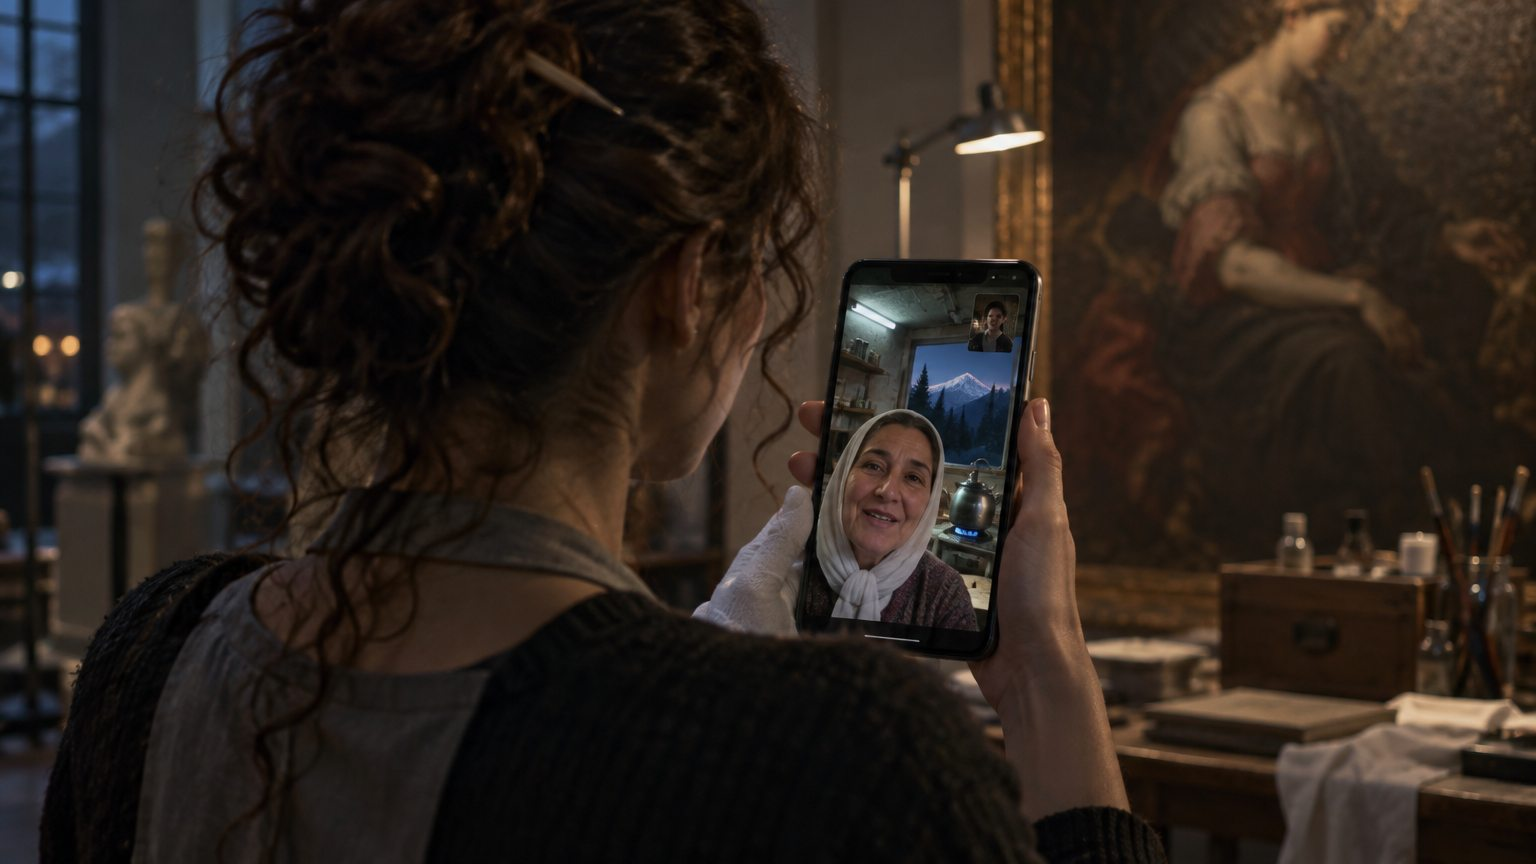
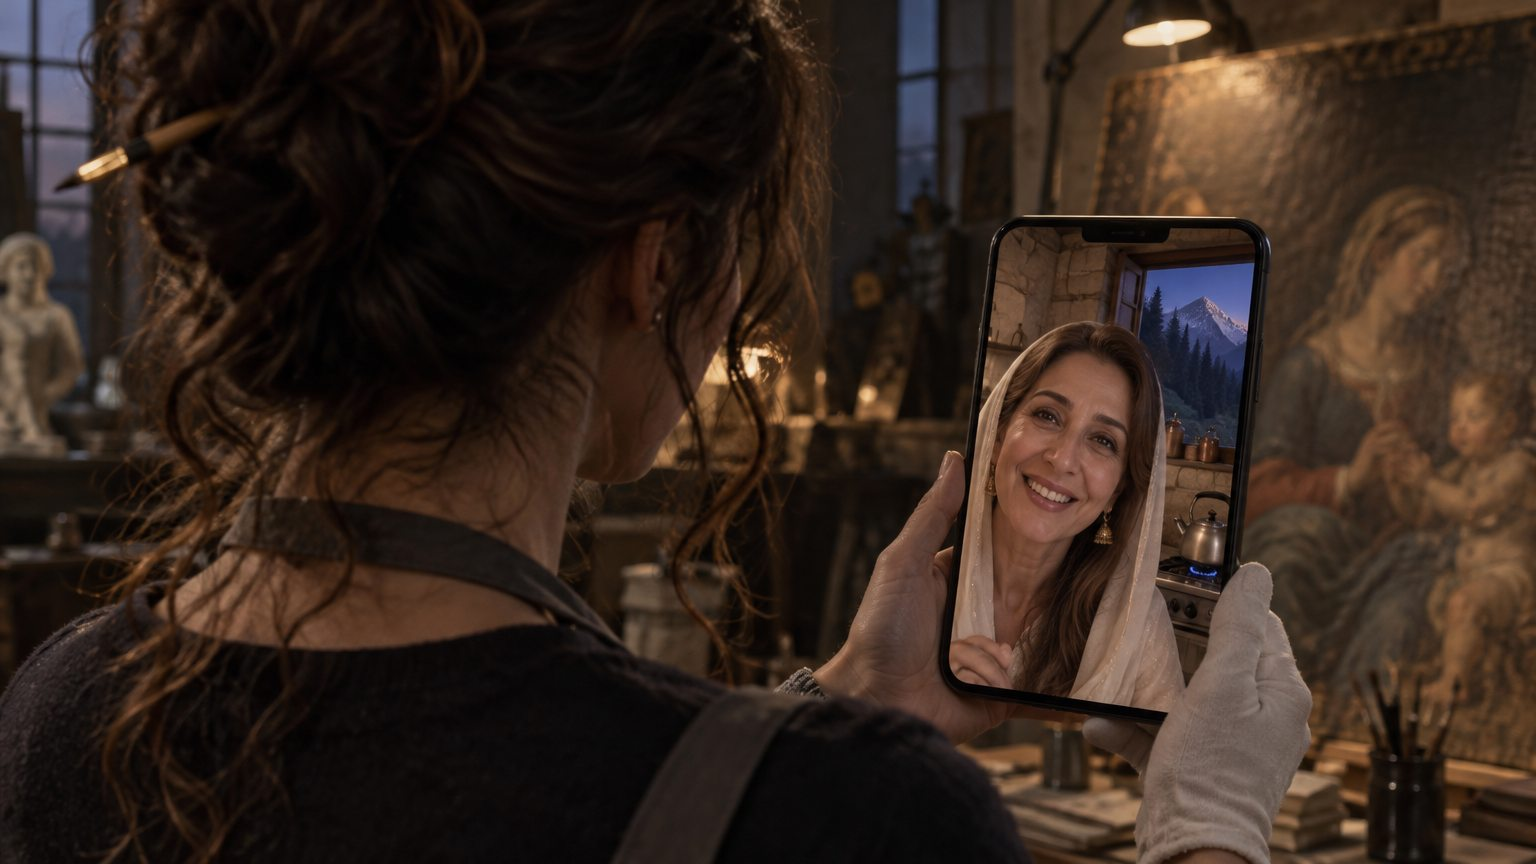
Lock parents' looks (Alex 55, Syd 52), redraw family frames, update storyboard and script ages

diff --git a/art/storyboards/storyboard-ch01.html b/art/storyboards/storyboard-ch01.html
@@ -102,6 +102,7 @@ footer { border-top: 1px solid var(--line); padding-top: 20px; color: var(--mute
     <div class="cast">
       <figure><img src="characters/nysa-v9.png" alt="Nysa, locked look"><figcaption><b>Nysa Ali, 25</b>Paintings conservator · NOW · violet</figcaption></figure>
       <figure><img src="characters/eesa-v9.png" alt="Eesa, locked look"><figcaption><b>Eesa Ali, 29</b>Erased in 2011 · THEN · blue</figcaption></figure>
+      <figure><img src="characters/parents-v1.png" alt="Alex and Syd, locked look"><figcaption><b>Alex 55 · Syd 52</b>Abbu and Ammi · Chandsar</figcaption></figure>
     </div>
   </header>
 
@@ -122,7 +123,7 @@ footer { border-top: 1px solid var(--line); padding-top: 20px; color: var(--mute
       </figure>
       <figure class="frame">
         <div class="shot"><img src="ch01/s1-3.jpg" alt="Video call with Ammi in her prayer dupatta in the mountain kitchen"><span class="tag">1C</span></div>
-        <figcaption><p class="what">Ammi calls from Chandsar just after dawn prayer. The house is sold. <q>Clear out the store room.</q> It was Eesa's room.</p><p class="feel">The first crack</p></figcaption>
+        <figcaption><p class="what">Ammi calls from Chandsar just after dawn prayer. Abbu has a new job in Islamabad and the house is sold. <q>Clear out the store room.</q> It was Eesa's room.</p><p class="feel">The first crack</p></figcaption>
       </figure>
       <figure class="frame wide">
         <div class="shot"><img src="ch01/s1-4.jpg" alt="Dark studio, the painting under a white sheet, ERASED banner on the wall"><span class="tag">1D</span></div>
@@ -148,7 +149,7 @@ footer { border-top: 1px solid var(--line); padding-top: 20px; color: var(--mute
       </figure>
       <figure class="frame">
         <div class="shot"><img src="ch01/s2-3.jpg" alt="The family photo at Lake Saiful Muluk, 2010"><span class="tag">2C</span></div>
-        <figcaption><p class="what">Saiful Muluk, August 2010. Abbu, Ammi, Nysa on his shoulders, and Eesa with his telescope, looking at the sky. Everyone else sees three faces.</p><p class="feel">Grief nobody believes</p></figcaption>
+        <figcaption><p class="what">Saiful Muluk, August 2010. Abbu (39), Ammi (36), Nysa (9) on his shoulders, and Eesa with his telescope, looking at the sky. Everyone else sees three faces.</p><p class="feel">Grief nobody believes</p></figcaption>
       </figure>
       <figure class="frame">
         <div class="shot"><img src="ch01/s2-4.jpg" alt="Sketchbook with drawings of the same boy growing older"><span class="tag">2D</span></div>

diff --git a/scripts/chapter-01-script.md b/scripts/chapter-01-script.md
@@ -162,7 +162,7 @@ The kettle behind her mother began to tick as it heated.
 
 "You said you were thinking about *thinking*."
 
-"Well, we thought. Your father's knees, Nysa. You haven't seen him on the stairs. And the winters, *Allah*, last winter the road was closed for nineteen days. Nineteen days. If something happened to one of us, what? A helicopter? We're old. Your Abbu found a flat in Islamabad, in F-11, near the hospital, with a lift. A *lift*." She said it the way someone else might say *a swimming pool*. "A man from Lahore is buying the house. He's going to make it into a guest house for tourists. He takes the keys on the twentieth."
+"Well, we thought. Your father got the post at the university, Nysa. In Islamabad. *Professor* Ali." She said the word as if she were tasting it. "And the winters, *Allah*, last winter the road was closed for nineteen days. Nineteen days. If something happened to one of us, what? A helicopter? Your Abbu found a flat in F-11, with a balcony and a lift. A *lift*." She said it the way someone else might say *a swimming pool*. "A man from Lahore is buying the house. He's going to make it into a guest house for tourists. He takes the keys on the twentieth."
 
 "The twentieth of *June*?"
 
@@ -311,7 +311,7 @@ It was an ordinary print from an ordinary shop in Mansehra, glossy, the colours 
 
 In the photograph the lake was so still that the mountain stood in it twice. Malika Parbat, the Queen of Mountains, white and enormous, and below it her reflection, white and enormous and upside down. In front of the water, on the stony shore, a family stood in a row in their jackets. It had been cold even in August.
 
-Her father, Alex, at forty-five: thinner, black-haired, in a brown wool jacket and a grey cap, squinting into the sun and smiling with only one side of his mouth, which was the only way he ever smiled for cameras. On his shoulders, holding onto his ears with both hands, a nine-year-old girl in a bright pink anorak with the hood up, laughing so hard her eyes had disappeared. Beside them her mother, Syd, in a green shawl, one hand raised to shield her eyes and the other half-lifted toward the girl, as if she were about to say *careful*, which she probably was.
+Her father, Alex, at thirty-nine: tall, his long black hair combed straight back and tied at the nape, a full dark beard, a brown leather jacket, grinning so widely his eyes had creased almost shut. On his shoulders, holding onto his ears with both hands, a nine-year-old girl in a bright pink anorak with the hood up, laughing so hard her eyes had disappeared. Beside them her mother, Syd, at thirty-six, her long caramel-brown hair loose and blowing across her face, a green shawl around her shoulders, small gold jhumkas catching the sun, one hand raised to shield her eyes and the other half-lifted toward the girl, as if she were about to say *careful*, which she probably was.
 
 And at the end of the row, standing a little apart from the others, a boy.
 

diff --git a/scripts/chapter-01-scene-list.md b/scripts/chapter-01-scene-list.md
@@ -28,8 +28,8 @@
 
 | Person | In 2026 |
 |---|---|
-| **Abbu: Alex** (father) | 61. Retired schoolteacher. Quiet, practical, drives an old white Corolla. Doesn't remember Eesa. |
-| **Ammi: Syd** (mother) | 57. Warm, talks fast, always feeding someone. Doesn't remember Eesa. |
+| **Abbu: Alex** (father) | 55. Tall, long black hair combed back and tied, full dark beard, a wide easy grin. A teacher who has just been given a university post in Islamabad. Drives an old white Corolla he refuses to sell. Doesn't remember Eesa. |
+| **Ammi: Syd** (mother) | 52. Fair, long caramel-brown hair with lighter streaks, gold jhumkas, stylish even at home. Warm, talks fast, always feeding someone. Doesn't remember Eesa. |
 | **Nysa** | 25. Paintings conservator in New York. Remembers four people in the family photo. |
 | **Eesa** | Would be 29. Erased on the night of 16–17 June 2011, aged 14. |
 
@@ -70,7 +70,7 @@ The family photograph: **Lake Saiful Muluk, August 2010.** All four in jackets, 
 - **Where:** Islamabad airport, then north on the N-15 through Abbottabad, Mansehra, Balakot (rebuilt after the 2005 earthquake), Kaghan and Naran, up to Chandsar.
 - **Weather:** 38 °C and hazy in Islamabad, cooling every hour. By Naran, 17 °C with snow on the peaks. The Kunhar River runs grey-green and loud with snowmelt.
 - **Who:** Nysa and Abbu, in his old white Corolla with prayer beads hanging from the mirror.
-- **What happens:** painted trucks, roadside chai at Balakot, landslide rubble near Kaghan. Abbu talks about the move and his knees. She asks carefully: "Do you remember the trip to Saiful Muluk?" He remembers it fondly: "The three of us. You got so sunburned."
+- **What happens:** painted trucks, roadside chai at Balakot, landslide rubble near Kaghan. Abbu talks about the move and his new university job. She asks carefully: "Do you remember the trip to Saiful Muluk?" He remembers it fondly: "The three of us. You got so sunburned."
 - **Player does:** conversation choices in the car. Some unlock small details about her childhood.
 - **Feeling:** the ache of being home and alone at the same time.
 - **History:** the 2005 earthquake (real), mentioned in passing.

diff --git a/art/characters/character-looks.md b/art/characters/character-looks.md
@@ -49,6 +49,22 @@ The AI images do **not** show this correctly. Use this description:
 
 ---
 
+## The parents · Alex (Abbu) 55 and Syd (Ammi) 52, in 2026
+
+![Alex and Syd](parents-v1.png)
+
+Young, stylish and warm for their age. **Never** frail or elderly.
+
+| | Alex (Abbu) | Syd (Ammi) |
+|---|---|---|
+| **Age** | 55 in 2026 · 39 in the 2010 lake photo | 52 in 2026 · 36 in the 2010 lake photo |
+| **Look** | Tall, fair. Long black hair with a few silver strands, combed straight back and tied at the nape. Full, neatly groomed dark beard, a touch of grey at the chin. | Fair, glowing skin. Long loose wavy caramel-brown hair with lighter highlights. Defined brows, warm brown eyes. |
+| **Expression** | A big, warm grin that creases his eyes. | A soft, affectionate smile; animated when she talks. |
+| **Style** | Black kurta and white shalwar at home; leather jacket outdoors; steel wristwatch. | Elegant even at home: lace or embroidered outfits, sheer dupatta, gold jhumkas and thin gold bangles. A white chiffon prayer dupatta at dawn. |
+| **Life** | Teacher, just given a university post in Islamabad. Drives an old white Corolla he refuses to sell. | Talks fast, always feeding someone. |
+
+---
+
 ## The pair
 
 - **Nysa:** dawn, mist, the lake above, violet and grey.
